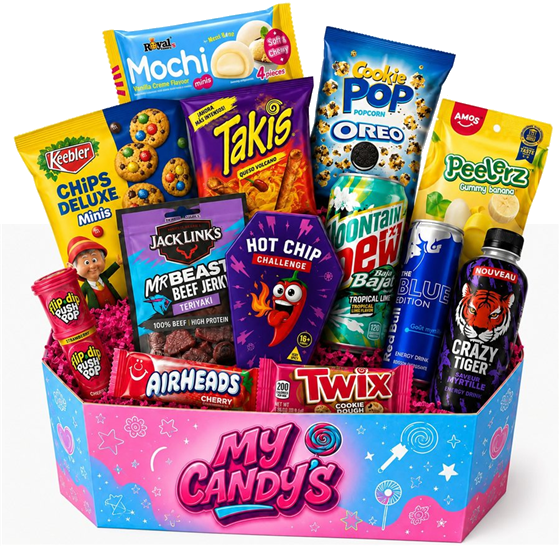
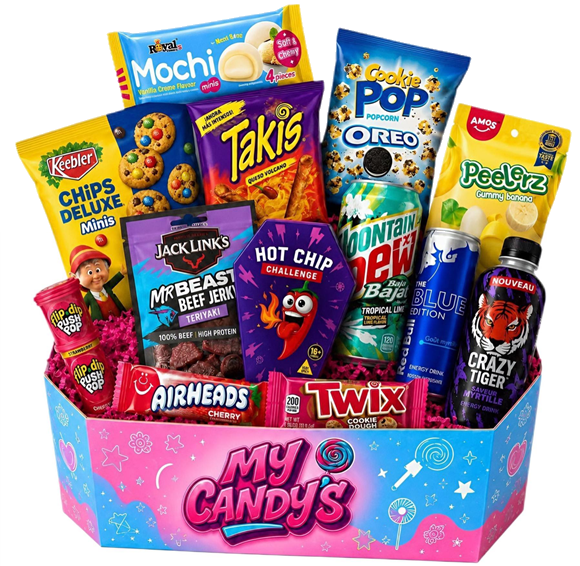
m

diff --git a/chrome.js b/chrome.js
@@ -131,7 +131,7 @@
     '<div class="mc-foot">' +
       '<div class="mc-fbrand">' +
         '<div class="mc-fbrand-logo"><img src="assets/logo.png" alt="My Candy\'s"></div>' +
-        '<p>Retrouve tout le meilleur des snacks viraux du monde — bonbons US, sodas TikTok, éditions limitées — dans ton épicerie du monde en ligne. Franchise née à Lyon. 🍬</p>' +
+        '<p>Retrouve tout le meilleur des snacks viraux du monde — bonbons US, sodas rares, éditions limitées — dans ton épicerie du monde en ligne. Franchise née à Lyon. 🍬</p>' +
         '<div class="mc-fsocial">' +
           '<a href="https://www.tiktok.com/@my.candys.raphael" target="_blank" rel="noopener" title="TikTok" aria-label="TikTok"><svg viewBox="0 0 24 24" width="20" height="20" fill="#fff" aria-hidden="true"><path d="M12.525.02c1.31-.02 2.61-.01 3.91-.02.08 1.53.63 3.09 1.75 4.17 1.12 1.11 2.7 1.62 4.24 1.79v4.03c-1.44-.05-2.89-.35-4.2-.97-.57-.26-1.1-.59-1.62-.93-.01 2.92.01 5.84-.02 8.75-.08 1.4-.54 2.79-1.35 3.94-1.31 1.92-3.58 3.17-5.91 3.21-1.43.08-2.86-.31-4.08-1.03-2.02-1.19-3.44-3.37-3.65-5.71-.02-.5-.03-1-.01-1.49.18-1.9 1.12-3.72 2.58-4.96 1.66-1.44 3.98-2.13 6.15-1.72.02 1.48-.04 2.96-.04 4.44-.99-.32-2.15-.23-3.02.37-.63.41-1.11 1.04-1.36 1.75-.21.51-.15 1.07-.14 1.61.24 1.64 1.82 3.02 3.5 2.87 1.12-.01 2.19-.66 2.77-1.61.19-.33.4-.67.41-1.06.1-1.79.06-3.57.07-5.36.01-4.03-.01-8.05.02-12.07z"/></svg></a>' +
           '<a href="https://www.instagram.com/my.candys.straphael" target="_blank" rel="noopener" title="Instagram" aria-label="Instagram"><svg viewBox="0 0 24 24" width="20" height="20" fill="#fff" aria-hidden="true"><path d="M12 0C8.74 0 8.333.015 7.053.072 5.775.132 4.905.333 4.14.63c-.789.306-1.459.717-2.126 1.384S.935 3.35.63 4.14C.333 4.905.131 5.775.072 7.053.012 8.333 0 8.74 0 12s.015 3.667.072 4.947c.06 1.277.261 2.148.558 2.913.306.788.717 1.459 1.384 2.126.667.666 1.336 1.079 2.126 1.384.766.296 1.636.499 2.913.558C8.333 23.988 8.74 24 12 24s3.667-.015 4.947-.072c1.277-.06 2.148-.262 2.913-.558.788-.306 1.459-.718 2.126-1.384.666-.667 1.079-1.335 1.384-2.126.296-.765.499-1.636.558-2.913.06-1.28.072-1.687.072-4.947s-.015-3.667-.072-4.947c-.06-1.277-.262-2.149-.558-2.913-.306-.789-.718-1.459-1.384-2.126C21.319 1.347 20.651.935 19.86.63c-.765-.297-1.636-.499-2.913-.558C15.667.012 15.26 0 12 0zm0 2.16c3.203 0 3.585.016 4.85.071 1.17.055 1.805.249 2.227.415.562.217.96.477 1.382.896.419.42.679.819.896 1.381.164.422.36 1.057.413 2.227.057 1.266.07 1.646.07 4.85s-.015 3.585-.074 4.85c-.061 1.17-.256 1.805-.421 2.227-.224.562-.479.96-.899 1.382-.419.419-.824.679-1.38.896-.42.164-1.065.36-2.235.413-1.274.057-1.649.07-4.859.07-3.211 0-3.586-.015-4.859-.074-1.171-.061-1.816-.256-2.236-.421-.569-.224-.96-.479-1.379-.899-.421-.419-.69-.824-.9-1.38-.165-.42-.359-1.065-.42-2.235-.045-1.26-.061-1.649-.061-4.844 0-3.196.016-3.586.061-4.861.061-1.17.255-1.814.42-2.234.21-.57.479-.96.9-1.381.419-.419.81-.689 1.379-.898.42-.166 1.051-.361 2.221-.421 1.275-.045 1.65-.06 4.859-.06l.045.03zm0 3.678c-3.405 0-6.162 2.76-6.162 6.162 0 3.405 2.76 6.162 6.162 6.162 3.405 0 6.162-2.76 6.162-6.162 0-3.405-2.76-6.162-6.162-6.162zM12 16c-2.21 0-4-1.79-4-4s1.79-4 4-4 4 1.79 4 4-1.79 4-4 4zm7.846-10.405c0 .795-.646 1.44-1.44 1.44-.795 0-1.44-.646-1.44-1.44 0-.794.646-1.439 1.44-1.439.793-.001 1.44.645 1.44 1.439z"/></svg></a>' +
@@ -143,7 +143,7 @@
       '<div class="mc-fcol"><div class="mc-fcol-title">Boutique</div><div class="mc-fcol-links"><a href="boutique?c=bestsellers">Bestsellers</a><a href="boutique?c=nouveautes">Nouveautés</a><a href="boutique?c=promos">Promos</a><a href="mystery-box">Mystery Box</a></div></div>' +
     '</div>' +
     '<div class="mc-fbarwrap"><div class="mc-fbar"><div>© 2026 My Candy\'s — Tous droits réservés. · <a href="infos?p=mentions" style="color:#D9AEC4;text-decoration:underline">Mentions légales</a> · <a href="infos?p=cgv" style="color:#D9AEC4;text-decoration:underline">CGV</a> · <a href="infos?p=confidentialite" style="color:#D9AEC4;text-decoration:underline">Confidentialité</a></div></div></div>' +
-    '<div class="mc-fcredit" style="text-align:center;padding:14px 20px calc(16px + env(safe-area-inset-bottom,0px));font-size:12.5px;color:#9B7A8C;background:#160309;border-top:1px solid rgba(255,255,255,.06)">Site créé par : <a href="https://linkeeiid.github.io/linkedia/" target="_blank" rel="noopener" style="color:#FF2E9A;font-weight:700;text-decoration:none">LinkedIA</a></div>' +
+    '<div class="mc-fcredit" style="text-align:center;padding:9px 20px calc(11px + env(safe-area-inset-bottom,0px));font-size:12px;color:#9B7A8C;background:#160309;border-top:1px solid rgba(255,255,255,.06)">Site créé par : <a href="https://linkeeiid.github.io/linkedia/" target="_blank" rel="noopener" style="color:#FF2E9A;font-weight:700;text-decoration:none">LinkedIA</a></div>' +
   '</footer>' +
   '<div id="mc-menu-ov" class="mc-ov"></div>' +
   '<aside id="mc-menu" class="mc-drawer">' +

diff --git a/styles.css b/styles.css
@@ -1,6 +1,6 @@
 /* My Candy's — styles partagés (habillage commun à toutes les pages) */
 *{box-sizing:border-box}
-html{scroll-behavior:smooth;overflow-x:clip}
+html{scroll-behavior:smooth;overflow-x:clip;background:#1c0512}
 body{margin:0;font-family:'Plus Jakarta Sans',system-ui,sans-serif;color:#2A0A1C;background:#E9F5FB;-webkit-font-smoothing:antialiased;overflow-x:clip}
 a{color:#E01784;text-decoration:none}
 img{display:block;max-width:100%}
@@ -200,12 +200,12 @@ h1,h2,h3{font-weight:800;letter-spacing:-.5px;margin:0}
 
 /* ---------- Footer ---------- */
 .mc-footer{background:#1c0512;color:#fff;margin-top:-1px}
-.mc-foot{max-width:1220px;margin:0 auto;padding:52px max(22px,env(safe-area-inset-right)) 30px max(22px,env(safe-area-inset-left));display:flex;gap:40px;flex-wrap:wrap}
+.mc-foot{max-width:1220px;margin:0 auto;padding:32px max(22px,env(safe-area-inset-right)) 22px max(22px,env(safe-area-inset-left));display:flex;gap:36px;flex-wrap:wrap}
 .mc-fbrand{flex:1;min-width:260px}
-.mc-fbrand-logo{background:#fff;border-radius:16px;padding:12px 14px;display:inline-block}
-.mc-fbrand-logo img{height:46px;width:auto}
-.mc-fbrand p{color:#D9AEC4;font-size:14px;line-height:1.6;margin:16px 0 0;max-width:300px}
-.mc-fsocial{display:flex;gap:10px;margin-top:18px}
+.mc-fbrand-logo{display:inline-block;line-height:0}
+.mc-fbrand-logo img{height:52px;width:auto}
+.mc-fbrand p{color:#D9AEC4;font-size:13.5px;line-height:1.55;margin:12px 0 0;max-width:300px}
+.mc-fsocial{display:flex;gap:10px;margin-top:14px}
 .mc-fsocial a{width:40px;height:40px;border-radius:12px;background:#3D1329;display:flex;align-items:center;justify-content:center;font-size:18px;transition:background .15s}
 .mc-fsocial a:hover{background:#FF2E9A}
 .mc-fcol{flex:none;min-width:150px}
@@ -214,7 +214,7 @@ h1,h2,h3{font-weight:800;letter-spacing:-.5px;margin:0}
 .mc-fcol-links a{color:#D9AEC4}
 .mc-fcol-links a:hover{color:#fff}
 .mc-fbarwrap{border-top:1px solid #3D1329}
-.mc-fbar{max-width:1220px;margin:0 auto;padding:20px 22px;display:flex;gap:16px;justify-content:space-between;align-items:center;flex-wrap:wrap}
+.mc-fbar{max-width:1220px;margin:0 auto;padding:13px 22px;display:flex;gap:16px;justify-content:space-between;align-items:center;flex-wrap:wrap}
 .mc-fbar > div:first-child{color:#B78AA0;font-size:13px}
 .mc-fpay{display:flex;gap:7px;flex-wrap:wrap}
 .mc-fpay span{background:#fff;color:#1a1a1a;font-weight:700;font-size:10.5px;padding:5px 8px;border-radius:6px}
@@ -249,7 +249,7 @@ h1,h2,h3{font-weight:800;letter-spacing:-.5px;margin:0}
   .mc-tl{font-size:8px}
   .mc-tsep{font-size:14px;margin-top:-6px}
   .mc-code{font-size:10.5px;padding:5px 11px;border-radius:9px}
-  .mc-foot{padding:40px 20px 24px;gap:26px 14px;text-align:center}
+  .mc-foot{padding:26px 20px 18px;gap:22px 14px;text-align:center}
   .mc-fbrand{flex-basis:100%;text-align:center}
   .mc-fbrand p{margin-left:auto;margin-right:auto}
   .mc-fsocial{justify-content:center}

diff --git a/index.html b/index.html
@@ -343,7 +343,7 @@ body.mc-noscroll{position:fixed;left:0;right:0;width:100%;overflow:hidden}
   });
   fill('mc-boxes', MC.BOXES.slice(0, 3).map(function (p) {
     var b = MC.badge(p);
-    return '<a class="mc-mbox" href="box?id=' + p.id + '"><div class="mc-mbox-img" style="background:#fff">' + (p.img ? '<img src="' + p.img + '" alt="' + MC.esc(p.name) + '" loading="lazy" decoding="async" style="position:absolute;inset:0;width:100%;height:100%;object-fit:contain">' : '<div class="mc-stripes"></div>') +
+    return '<a class="mc-mbox" href="box?id=' + p.id + '"><div class="mc-mbox-img" style="background:#fff">' + (p.img ? '<img src="' + p.img + '" alt="' + MC.esc(p.name) + '" loading="lazy" decoding="async" style="position:absolute;inset:0;width:100%;height:100%;object-fit:cover">' : '<div class="mc-stripes"></div>') +
       '<div class="mc-price" style="top:10px;left:10px;font-size:13px;padding:5px 11px">' + MC.money(p.price) + '</div>' +
       (b ? '<span class="mc-badge" style="bottom:8px;background:' + b.bg + ';color:' + b.color + '">' + b.text + '</span>' : '') +
       '</div><div class="mc-mbox-body"><b>' + MC.esc(p.name) + '</b>' +

diff --git a/mystery-box.html b/mystery-box.html
@@ -258,7 +258,7 @@
       return '' +
         '<a class="mb-card' + (p.pop ? ' pop' : '') + '" href="box?id=' + MC.esc(p.id) + '">' +
           '<div class="mb-card-img" style="background:#fff">' +
-            (p.img ? '<img src="' + p.img + '" alt="' + MC.esc(p.name) + '" loading="lazy" decoding="async" style="position:absolute;inset:0;width:100%;height:100%;object-fit:contain">' : '<div class="mc-stripes"></div>') +
+            (p.img ? '<img src="' + p.img + '" alt="' + MC.esc(p.name) + '" loading="lazy" decoding="async" style="position:absolute;inset:0;width:100%;height:100%;object-fit:cover">' : '<div class="mc-stripes"></div>') +
             (p.ribbon ? '<div class="mb-ribbon">' + p.ribbon + '</div>' : '') +
             '<div class="mb-pricepill">' + MC.money(p.price) + '</div>' +
           '</div>' +
